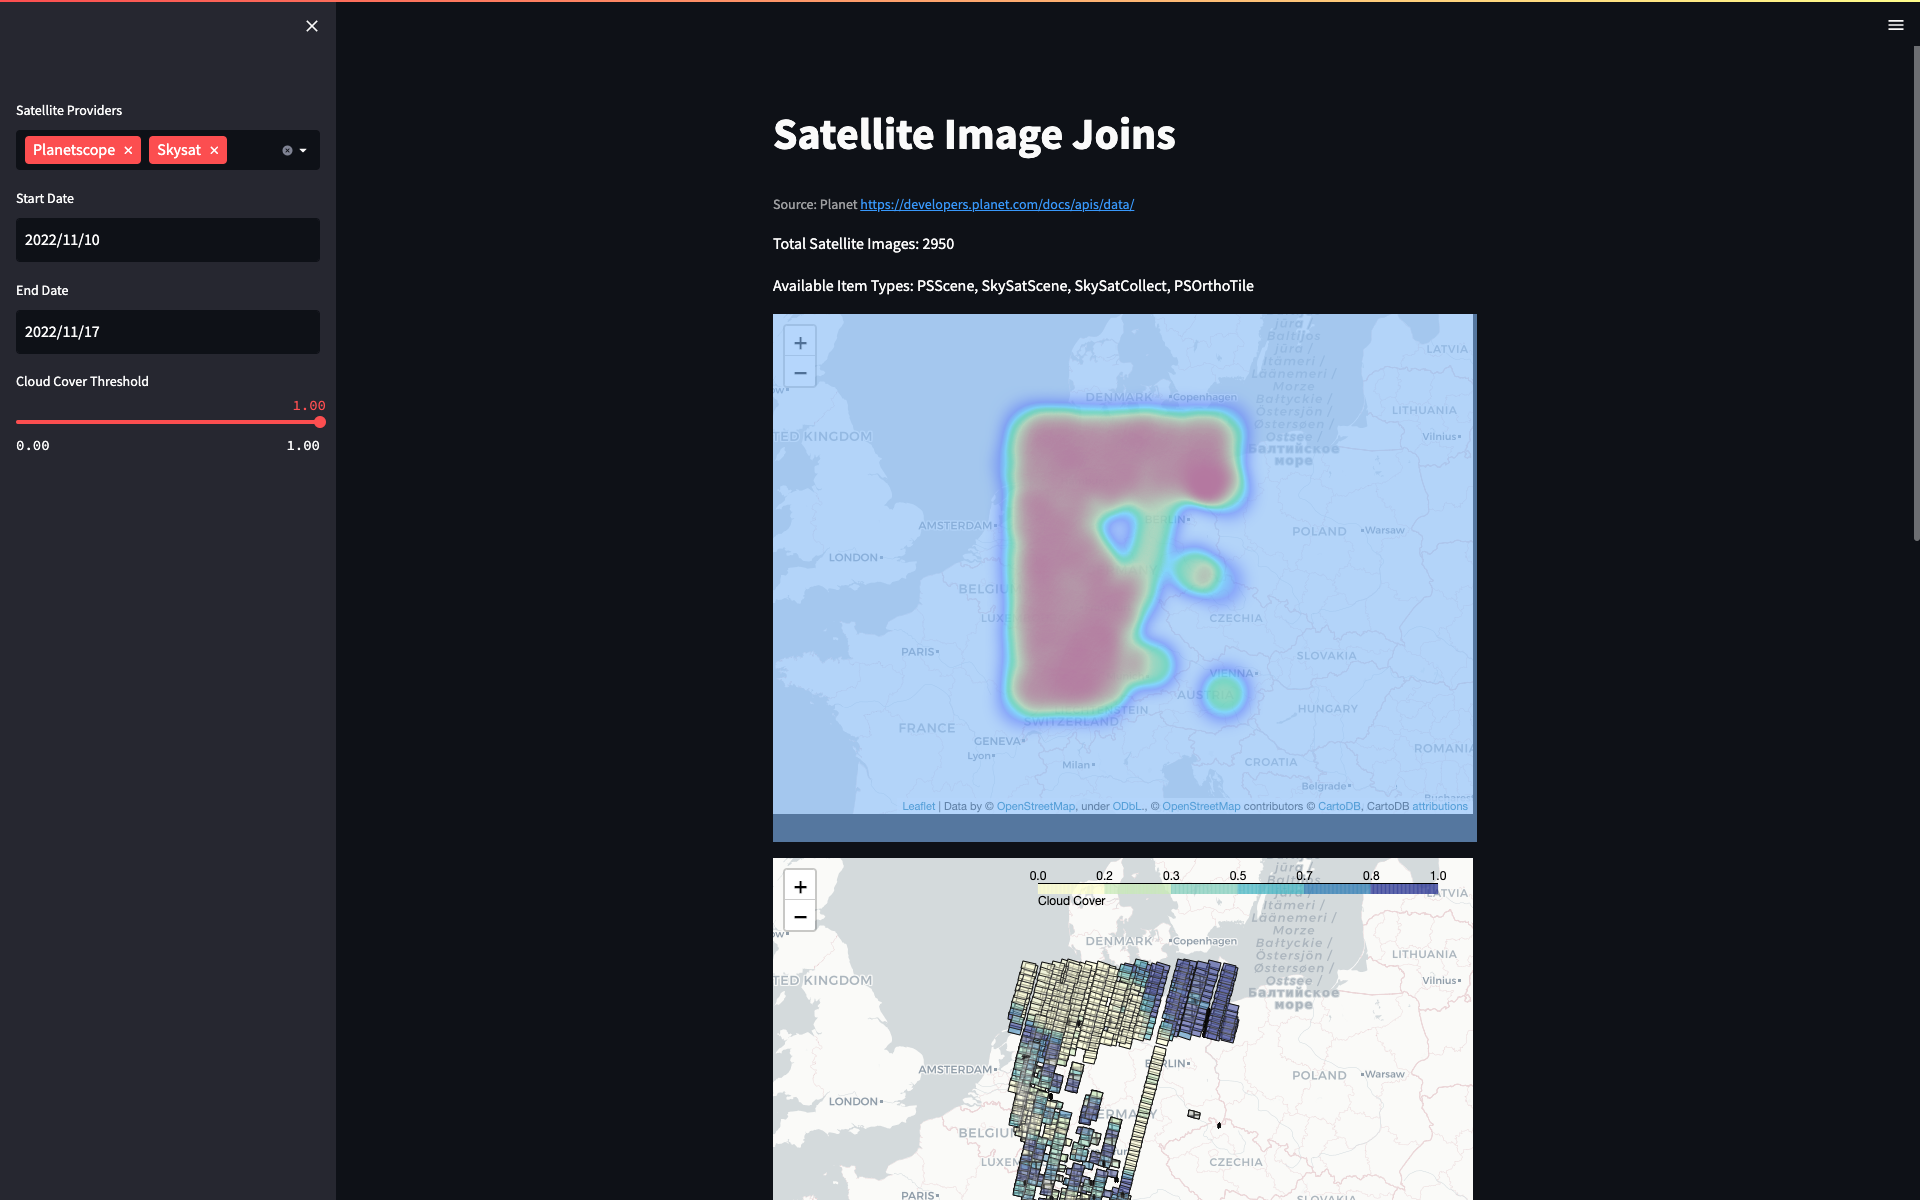
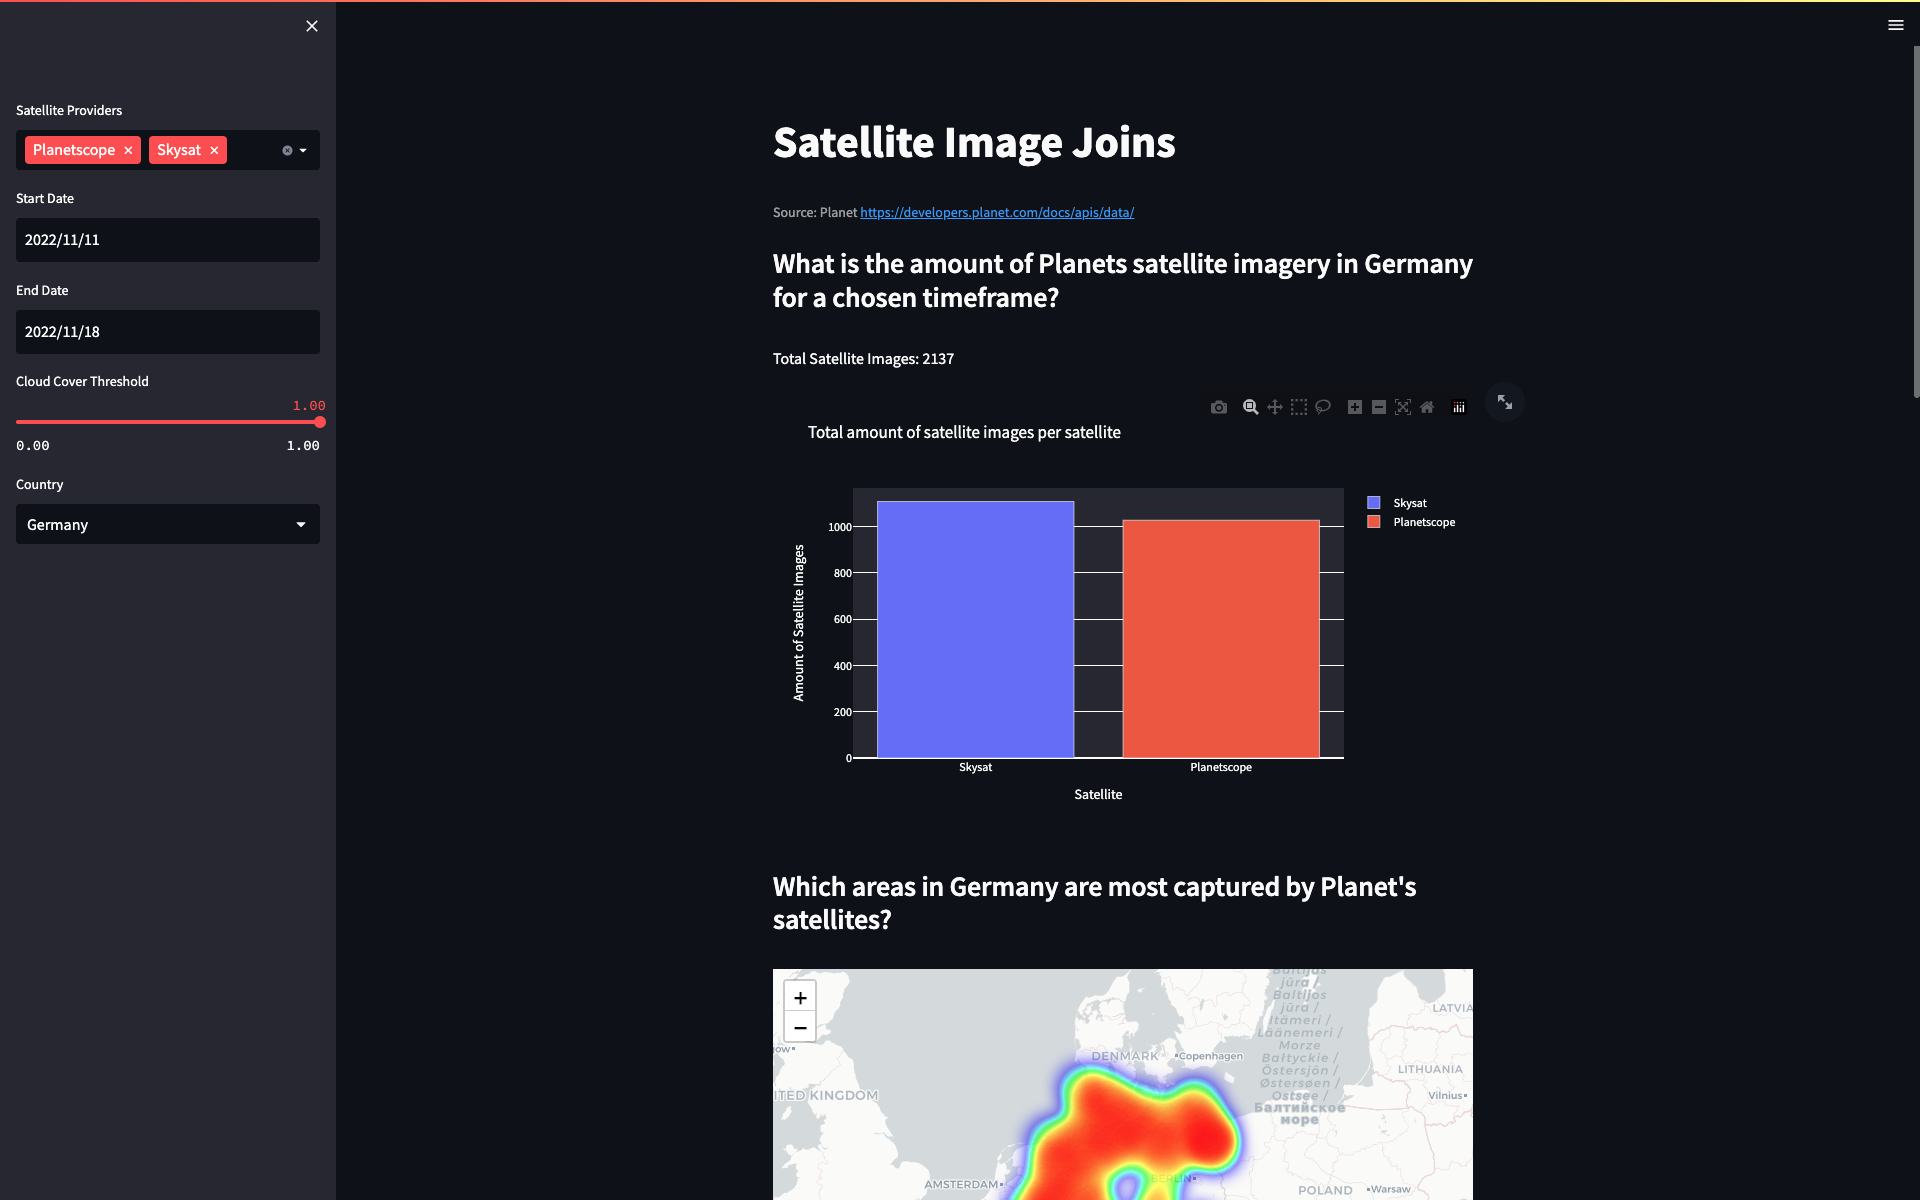
edit readme and final app cleanup

Changed region(s): [[0.375, 0.0925, 0.7812, 1.0], [0.0, 0.4008, 0.1875, 0.4625]]

diff --git a/app/query.py b/app/query.py
@@ -5,9 +5,10 @@ from geoalchemy2.shape import to_shape
 from geojson import Feature, FeatureCollection, dumps
 import json
 import datetime
+import geopandas as gpd
+import sqlalchemy
 
-
-from database.db import SatImage, Satellite, City, Country
+from database.db import SatImage, Satellite, City, Country, LandCoverClass
 
 def query_all_countries_name(_session: session.Session) -> list[str]:
     query=_session.query(Country)
@@ -19,7 +20,7 @@ def query_asset_types_from_image(_image: SatImage) -> list[str]:
 
 def query_land_cover_class_from_image(_image: SatImage) -> list[str]:
     return list(set([i.featureclass for i in _image.land_cover_class]))
-       
+
 
 def create_images_df(_images: list[SatImage]):
     
@@ -29,7 +30,8 @@ def create_images_df(_images: list[SatImage]):
         'pixel_res' : [image.satellites.pixel_res for image in _images],
         'time_acquired': [image.time_acquired.strftime("%Y-%m-%d %H:%M:%S") for image in _images],
         'sat_name' : [image.satellites.name for image in _images],
-        "area_sqkm": [image.area_sqkm for image in _images]})
+        "area_sqkm": [image.area_sqkm for image in _images],
+        'land_cover_class': [query_land_cover_class_from_image(image) for image in _images]})
 
 
 def create_images_geojson(_images: list[SatImage]) -> dict:
@@ -81,6 +83,16 @@ def create_cities_df(_cities: list[Country]) -> pd.DataFrame:
         'name' : [i.name for i in _cities],
         'total_images' : [i.total_images for i in _cities]})
 
+def create_land_cover_gpd(_land_cover_classes: list[tuple[LandCoverClass, int]]) -> gpd.GeoDataFrame:
+    df = pd.DataFrame({
+        'id': [i[0].id for i in _land_cover_classes],
+        'featureclass': [i[0].featureclass for i in _land_cover_classes],
+        'total_images': [i[1] for i in _land_cover_classes],
+        'geom': [to_shape(i[0].geom) for i in _land_cover_classes]})
+
+    gdf = gpd.GeoDataFrame(df,geometry=df['geom'], crs=4326).drop(columns=['geom'])
+    return gdf.rename_geometry('geom')
+
 def query_distinct_satellite_names(_session: session.Session) -> list[str]:
     query = _session.query(Satellite.name).distinct()
     return sorted([sat.name for sat in query])
@@ -122,12 +134,33 @@ def query_cities_with_filters(_session: session.Session,
 
     subquery_country = _session.query(Country.geom).filter(Country.name == country_name).scalar_subquery()
     subquery_sat = _session.query(Satellite.id).filter(Satellite.name.in_(sat_names)).subquery()
-    return _session.query(City.id, City.name, City.buffer, func.count(SatImage.geom).label('total_images'))\
+    return _session.query(City.id, City.name, City.buffer, func.count(SatImage.id).label('total_images'))\
                                                             .join(City.sat_images)\
-                                                            .filter(SatImage.centroid.ST_Intersects(subquery_country))\
+                                                            .filter(SatImage.geom.ST_Intersects(subquery_country))\
                                                             .filter(SatImage.sat_id.in_(select(subquery_sat)))\
                                                             .filter(SatImage.time_acquired >= start_date,
                                                                     SatImage.time_acquired <= end_date,
                                                                     SatImage.cloud_cover <= cloud_cover)\
                                                             .group_by(City.id).all()
 
+
+
+    
+
+def query_land_cover_classes_with_filters(_session: session.Session,
+                                            sat_names: list, 
+                                            cloud_cover: float, 
+                                            start_date: datetime.date, 
+                                            end_date: datetime.date,
+                                            country_name: str) -> list[LandCoverClass]:
+
+    subquery_country = _session.query(Country.geom).filter(Country.name == country_name).scalar_subquery()
+    subquery_sat = _session.query(Satellite.id).filter(Satellite.name.in_(sat_names)).subquery()                                    
+    return _session.query(LandCoverClass, func.count(SatImage.id).label('total_images'))\
+                                                        .join(LandCoverClass.sat_image)\
+                                                        .filter(SatImage.geom.ST_Intersects(subquery_country))\
+                                                        .filter(SatImage.sat_id.in_(select(subquery_sat)))\
+                                                        .filter(SatImage.time_acquired >= start_date,
+                                                                    SatImage.time_acquired <= end_date,
+                                                                    SatImage.cloud_cover <= cloud_cover)\
+                                                        .group_by(LandCoverClass.id).all()

diff --git a/app.py b/app.py
@@ -36,20 +36,29 @@ def main():
     df_images = query.create_images_df(images)
 
 
-    # cities = query.query_cities_with_filters(_session=session,
-    #                                         sat_names=sat_names,
-    #                                         cloud_cover=cloud_cover,
-    #                                         start_date=start_date,
-    #                                         end_date=end_date,
-    #                                         country_name=country_name)
-    # cities_geojson = query.create_cities_geojson(_cities=cities)
-    # df_cities = query.create_cities_df(_cities=cities)
+    cities = query.query_cities_with_filters(_session=session,
+                                            sat_names=sat_names,
+                                            cloud_cover=cloud_cover,
+                                            start_date=start_date,
+                                            end_date=end_date,
+                                            country_name=country_name)
+    cities_geojson = query.create_cities_geojson(_cities=cities)
+    df_cities = query.create_cities_df(_cities=cities)
     
 
+    land_cover_classes = query.query_land_cover_classes_with_filters(_session=session,
+                                                                sat_names=sat_names,
+                                                                cloud_cover=cloud_cover,
+                                                                start_date=start_date,
+                                                                end_date=end_date,
+                                                                country_name=country_name)
+    
+    gdf_land_cover = query.create_land_cover_gpd(land_cover_classes)
+    
     if len(df_images.index) == 0:
         st.write('No Images available for selected filters')
     else:
-        st.subheader("What is the total amount of satellite images in {} for a chosen timeframe?".format(country_name))
+        st.subheader("What is the amount of Planets satellite imagery in {} for a chosen timeframe?".format(country_name))
         st.write('Total Satellite Images: {}'.format(len(images)))
         plots.plot_images_per_satellite(df_images=df_images)
         
@@ -58,17 +67,28 @@ def main():
                     lat_lon_lst=lat_lon_lst, 
                     sat_name=sat_names)
         
-        st.subheader("What is the overlap of area coverage for the different satellite constelations for a choses timeframe?")
+        st.write('Total images for each major city in {} with 30km buffer radius'.format(country_name))
+        st.caption('This also displays cities near the borders due to the buffer polygon around the city and the geometry of the satellite image which may cross the border')
+        maps.images_per_city(map=maps.create_basemap(lat_lon_list=lat_lon_lst),
+                            cities_geojson=cities_geojson,
+                            df_cities=df_cities)
+        
+        st.subheader("What is the imagery coverage for each land cover classification?")
+        
+        plots.plot_images_per_land_cover_class(df_images=df_images)
 
-        st.subheader("What is the coverage of each land cover class for each image?")
-        # maps.image_info_map(map=maps.create_basemap(lat_lon_list=lat_lon_lst), 
-        #                     images_geojson=images_geojson, 
-        #                     df_images=df_images)
+        st.caption('This displays all land cover class geometries that are covered by Planets satellite imagegery and specified filters,"\
+                    "it does not display land cover geometries that are not covered by imagery with the specified filters')
+                    
+        maps.images_per_land_cover_class(map=maps.create_basemap(lat_lon_list=lat_lon_lst),
+                                        gdf_land_cover=gdf_land_cover)
 
-        # maps.images_per_city(map=maps.create_basemap(lat_lon_list=lat_lon_lst),
-        #                     cities_geojson=cities_geojson,
-        #                     df_cities=df_cities)
+        st.subheader('Which land cover classifications are covered for each individual satellite image?')
+        maps.image_info_map(map=maps.create_basemap(lat_lon_list=lat_lon_lst), 
+                            images_geojson=images_geojson, 
+                            df_images=df_images)
 
+        
 if __name__=='__main__':
     main()
 

diff --git a/app/maps.py b/app/maps.py
@@ -2,6 +2,7 @@ import folium
 from folium.plugins import HeatMap
 from streamlit_folium import st_folium
 import pandas as pd
+import geopandas as gpd
 
 
 def create_basemap(zoom: int=None, lat_lon_list: list=None) -> folium.Map:
@@ -66,34 +67,6 @@ def image_info_map(
         )).add_to(map)
     
     return map, st_folium(map, height= 500, width=700, key='Image')
-    
-
-
-def images_per_country_map(
-    map: folium.Map, countries_geojson: str, df_countries: pd.DataFrame) -> tuple[folium.Map, dict]:
-    """instantiates a Chloropleth map that dislays images per country"""
-
-    folium.Choropleth(geo_data=countries_geojson,
-                    name='Choropleth: Total Satellite Imagery per Country',
-                    data=df_countries,
-                    columns=['iso', 'total_images'],
-                    key_on ='feature.id',
-                    fill_color='YlGnBu',
-                    legend_name='Satellite Image per Country',
-                    smooth_factor=0).add_to(map)
-               
-    folium.GeoJson(
-        countries_geojson,
-        control=False,
-        style_function=_tooltip_style_func(),
-        highlight_function =_tooltip_highlight_func(),
-        tooltip=folium.GeoJsonTooltip(
-            fields=['name', 'total_images'],
-            aliases=['Country:  ','Total Images: '],
-            
-            )).add_to(map)
-    
-    return map, st_folium(map, height= 500, width=700, key='Country')
 
 
 def images_per_city(
@@ -120,3 +93,29 @@ def images_per_city(
             )).add_to(map)
 
     return map, st_folium(map, height= 500, width=700, key='City')
+
+def images_per_land_cover_class( 
+    map: folium.Map, gdf_land_cover: gpd.GeoDataFrame) -> tuple[folium.Map, dict]:
+    """instantiates a Chloropleth map that dislays images per land cover class"""
+
+    land_cover_geojson = gdf_land_cover.to_json()
+    folium.Choropleth(geo_data=land_cover_geojson,
+                    name='Choropleth: Total Satellite Imagery per Land Cover Class',
+                    data=gdf_land_cover,
+                    columns=['id', 'total_images'],
+                    key_on ='feature.id',
+                    fill_color='YlGnBu',
+                    legend_name='Satellite Image per Land Cover Class',
+                    smooth_factor=0).add_to(map)
+
+    folium.GeoJson(
+        land_cover_geojson,
+        control=False,
+        style_function=_tooltip_style_func(),
+        highlight_function =_tooltip_highlight_func(),
+        tooltip=folium.GeoJsonTooltip(
+            fields=['featureclass', 'total_images'],
+            aliases=['Featureclass:  ','Total Images: '],
+            )).add_to(map)
+
+    return map, st_folium(map, height= 500, width=700, key='Land_Cover')

diff --git a/app/plots.py b/app/plots.py
@@ -4,11 +4,6 @@ import plotly.express as px
 import pandas as pd
 import streamlit as st
 
-
-
-def plot_images_per_land_cover_class():
-    pass
-
 def plot_images_per_satellite(df_images: pd.DataFrame) -> st.plotly_chart:
 
     # create fig to plot on
@@ -18,10 +13,31 @@ def plot_images_per_satellite(df_images: pd.DataFrame) -> st.plotly_chart:
         df = df_images[df_images['sat_name'] == sat_name]
         grouped_sat_df = df.groupby('sat_name').count()
     
-        fig.add_trace(go.Bar(x=grouped_sat_df.index, y=grouped_sat_df.id, name=sat_name))
+        fig.add_trace(go.Bar(x=grouped_sat_df.index, y=grouped_sat_df['id'], name=sat_name))
     
     
-    fig.update_layout(title='Total amount of satellite images',
+    fig.update_layout(title='Total amount of satellite images per satellite',
                         xaxis_title='Satellite',
                         yaxis_title='Amount of Satellite Images')
+    return fig, st.plotly_chart(fig)
+
+def plot_images_per_land_cover_class(df_images: pd.DataFrame) -> st.plotly_chart:
+
+    # create fig to plot on
+    fig = go.Figure()
+    
+    #explode land cover classes lists to do proper groupby
+    df_ex_images = df_images.explode('land_cover_class')
+    
+    for featureclass in df_ex_images['land_cover_class'].unique():
+        df = df_ex_images[df_ex_images['land_cover_class'] == featureclass]
+        
+        grouped_land_cover = df.groupby('land_cover_class').count()
+    
+        fig.add_trace(go.Bar(x=grouped_land_cover.index, y=grouped_land_cover['id'], name=featureclass))
+
+    fig.update_layout(title='Total amount of satellite images per Land Cover Classification',
+                        xaxis_title='Land Cover Classification',
+                        yaxis_title='Amount of Satellite Images')
+
     return fig, st.plotly_chart(fig)

diff --git a/tests/unit/app/test_query_u.py b/tests/unit/app/test_query_u.py
@@ -146,21 +146,4 @@ def test_create_images_geojson(fake_image):
     assert images_geojson['features'][0]['properties']['sat_name'] == fake_image.satellites.name
     assert images_geojson['features'][0]['properties']['asset_types'] ==[i.id for i in fake_image.item_types.assets]
 
-# def test_create_countries_geojson(fake_country):
-
-#     country_geojson = query.create_country_geojson([fake_country])
-    
-#     assert country_geojson['features'][0]['properties']['iso'] == fake_country.iso
-#     assert country_geojson['features'][0]['properties']['name'] == fake_country.name
-#     assert country_geojson['features'][0]['properties']['total_images'] == fake_country.total_images
-    
-
-# def test_create_countries_df(fake_country):
-
-#     country_df = query.create_countries_df([fake_country])
-    
-#     assert isinstance(country_df, pd.DataFrame)
-#     assert country_df['iso'][0] == fake_country.iso
-#     assert country_df['name'][0] == fake_country.name
-#     assert country_df['total_images'][0] == fake_country.total_images
 

diff --git a/tests/unit/app/test_plots_u.py b/tests/unit/app/test_plots_u.py
@@ -15,3 +15,17 @@ def test_plot_images_per_satellite():
 
     assert fig.__dict__['_data_objs'][0]['x'][0] == 'Planetscope'
     assert fig.__dict__['_data_objs'][0]['y'][0] == 1
+
+
+def test_plot_image_per_land_cover_class():
+    fake_df_images = pd.DataFrame({'id':['6050990_3363309_2022-11-02_2446'],
+                                'cloud_cover':[0.0],
+                                'pixel_res':[3.125],
+                                'time_acquired': ['2022-11-02 10:44:57'],
+                                'sat_name':['Planetscope'],
+                                'land_cover_class': [['Urban Area', 'River']]})
+
+    fig,st_fig = plots.plot_images_per_land_cover_class(fake_df_images)
+
+    assert fig.__dict__['_data_objs'][0]['x'][0] == 'Urban Area'
+    assert fig.__dict__['_data_objs'][1]['x'][0] == 'River'

diff --git a/README.md b/README.md
@@ -2,14 +2,14 @@
 
 ## Purpose
 This is a tool for analyzing satellite image metadata from different constellations. It imports the metadata from [Planets Data API](https://developers.planet.com/docs/apis/data/) for a specified AOI and TOI into PostGIS. This is referenced against geospatial information about countries/cities and various land cover classification data within PostGIS. 
-The aggregated and spatial statistics about the imagery are displayed on a Streamlit dashboard.  The dashboards includes various Folium maps displaying where and when images are available from what satellite, including various specifications (Bands / Pixel resolution / Cloud Cover / Area covered) referenced against cities/countries and land cover classification data. 
+The aggregated and spatial statistics about the imagery are displayed on a Streamlit dashboard.  The dashboards includes Plotly Grapths with general statistics and Folium maps displaying where and when images are available from what satellite, including various specifications (Bands / Pixel resolution / Cloud Cover / Area covered) referenced against cities/countries and land cover classification data. 
 
 ### Research questions
+* What is the amount of Planets satellite imagery in a specified country for a chosen timeframe?
 * Which areas in a specified country are most captured by Planet's satellites?
-* What is the overlap of area coverage for the different satellite constelations for a choses point in time.
-* Where is the highest density of overlap?
-* When is the highest denistity of overlap?
-* What is the coverage of each land cover class for each image?
+      * What is the amount of satellite images per city?
+* What is the amount of Planets satellite imagery for each land cover classification?
+* Which land cover classifications are covered for each individual satellite image?
 
 ## Dependencies
 
@@ -80,10 +80,12 @@ streamlit run app.py
 
 ## App Screenshots
 ![Landingpage](https://github.com/marcleerink/sat_img_joiner/blob/main/data/app_screenshots/landing.png)
+![Total Images Plot](https://github.com/marcleerink/sat_img_joiner/blob/main/data/app_screenshots/total_images_plot.png)
 ![Heatmap](https://github.com/marcleerink/sat_img_joiner/blob/main/data/app_screenshots/heatmap.png)
-![Images Choropleth Map](https://github.com/marcleerink/sat_img_joiner/blob/main/data/app_screenshots/images.png)
-![Countries Choropleth Map](https://github.com/marcleerink/sat_img_joiner/blob/main/data/app_screenshots/countries.png)
 ![Cities Choropleth Map](https://github.com/marcleerink/sat_img_joiner/blob/main/data/app_screenshots/cities.png)
+![Land Cover Plot](https://github.com/marcleerink/sat_img_joiner/blob/main/data/app_screenshots/land_cover_plot.png)
+![Land Cover Choropleth Map](https://github.com/marcleerink/sat_img_joiner/blob/main/data/app_screenshots/land_cover_map.png)
+![Images Choropleth Map](https://github.com/marcleerink/sat_img_joiner/blob/main/data/app_screenshots/images.png)
 
 ## Future Implementations:
 - Add more visualisations from spatial and statistic calculations.
